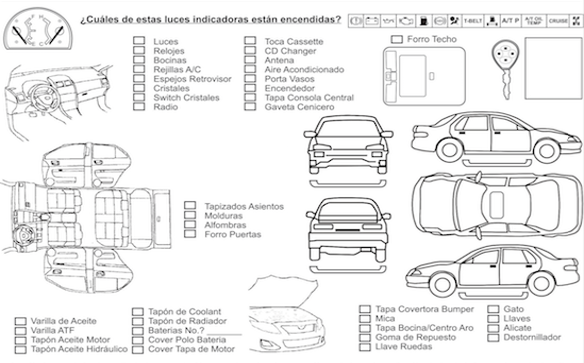
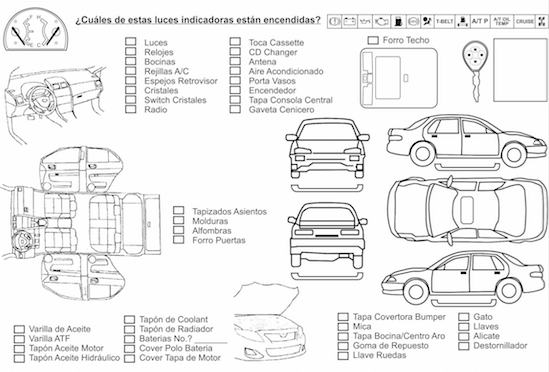
fix: improve vehicle conduce inspection image quality

diff --git a/fcr_vehicle_conduce/README.md b/fcr_vehicle_conduce/README.md
@@ -102,10 +102,10 @@ y 279.4 allí truncaría las dimensiones. El formato Letter conserva el tamaño 
 Se desactiva `smart shrinking` para respetar las medidas CSS en milímetros y evitar
 que wkhtmltopdf reduzca silenciosamente todo el documento.
 
-`static/src/img/vehicle_inspection.png` es un recorte exacto, sin redibujado,
-de la segunda imagen suministrada (Conduce de Salida, 842 × 1079 píxeles):
-rectángulo x=112, y=464, ancho=584, alto=363. `fcr_logo.png` procede de la misma imagen:
-x=248, y=59, ancho=344, alto=48. La resolución original limita la nitidez impresa.
+`static/src/img/vehicle_inspection.png` procede del documento Word de referencia
+`4. Conduce de salida.docx` para conservar la mejor nitidez disponible. `fcr_logo.png`
+procede de la segunda imagen suministrada (Conduce de Salida, 842 × 1079 píxeles):
+x=248, y=59, ancho=344, alto=48.
 
 El texto legal y el pie se transcriben del formato de salida suministrado, conservando
 su redacción. El checklist y las líneas de Inspector/Cliente se completan a mano.
